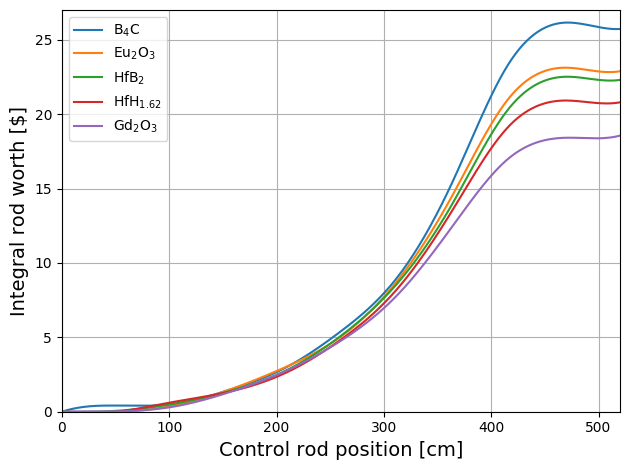
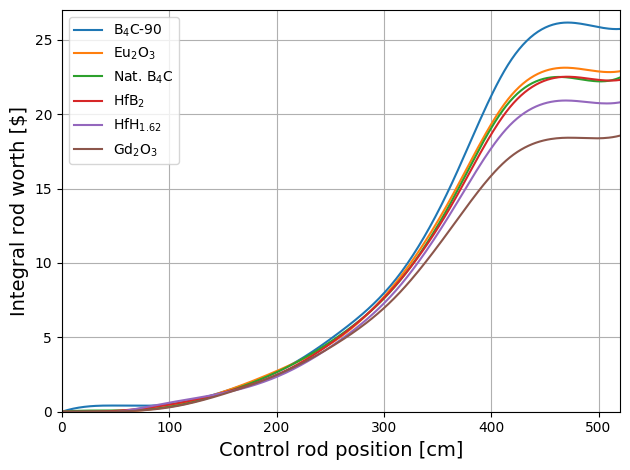
After Tikhomirov's review

diff --git a/paper/results.tex b/paper/results.tex
@@ -22,53 +22,53 @@ The proposed reactivity control system must compensate such reactivity at startu
 
 The control rod parameters including control rod worth (CRW), interference 
 between CR clusters, and integral and differential control rod worths are 
-described in this part. Five different absorbing materials are considered based 
-on their neutronics and safety performance (see part \ref{CRD}). 
+described in this part. 
 Table~\ref{tab:worth} shows calculated control rod worth, the amplification 
-factor (A$_{CRi}$), and the type of interference for five different 
+factor (A$_{CRi}$), and the type of interference for the six different 
 absorbers.
 
 \begin{sidewaystable}
-	\fontsize{6}{9}\selectfont
+	\fontsize{5}{7}\selectfont
 	\centering
 	\caption{The control rod worth and shadowing effect for different CR 
 	materials.}
 	\vspace{1ex}
-	\begin{tabularx}{\textwidth}{|X|p{0.65cm}|p{0.65cm}|p{0.65cm}| 
-	p{0.65cm}|p{0.65cm}|p{0.65cm}| p{0.65cm}|p{0.65cm}|p{0.65cm}| 
-	p{0.65cm}|p{0.65cm}|p{0.65cm}| p{0.65cm}|p{0.65cm}|p{0.65cm}|}
+	\begin{tabularx}{\textwidth}{|p{1.8cm}|p{0.56cm}|p{0.5cm}|p{0.49cm}|p{0.56cm}|p{0.5cm}|p{0.49cm}| 
+	p{0.56cm}|p{0.5cm}|p{0.49cm}|p{0.56cm}|p{0.5cm}|p{0.49cm}| 
+	p{0.56cm}|p{0.5cm}|p{0.49cm}|p{0.56cm}|p{0.5cm}|p{0.49cm}|}
 		\hline
 		\multirow{2}{*}{Control Rod group}		& 
-		\multicolumn{3}{c|}{B$_4$C-90}   	&\multicolumn{3}{c|}{HfB$_2$}	
+		\multicolumn{3}{c|}{Nat. B$_4$C} & \multicolumn{3}{c|}{B$_4$C-90}   	&\multicolumn{3}{c|}{HfB$_2$}	
 		&\multicolumn{3}{c|}{HfH$_{1.62}$} 
 		&\multicolumn{3}{c|}{Gd$_2$O$_3$}	& 	
 		\multicolumn{3}{c|}{Eu$_2$O$_3$} \\
-		\cline{2-16}
-		& $\Delta\rho$$_{CRi}$  [\$]  &A$_{CRi}$	& Interfe\-rence	
-		&$\Delta\rho$$_{CRi}$ [\$]&A$_{CRi}$	& Interfe\-rence	
-		&$\Delta\rho$$_{CRi}$ [\$]	&A$_{CRi}$	& Interfe\-rence	
-		&$\Delta\rho$$_{CRi}$ [\$]	&A$_{CRi}$	& Interfe\-rence	
-		&$\Delta\rho$$_{CRi}$ [\$]	&A$_{CRi}$  &	Interfe\-rence \\
+		\cline{2-19}
+		& $\Delta\rho$$_{CRi}$  [\$]  &A$_{CRi}$	& Inter\-ference
+		& $\Delta\rho$$_{CRi}$  [\$]  &A$_{CRi}$	& Inter\-ference	
+		&$\Delta\rho$$_{CRi}$ [\$]  &A$_{CRi}$	& Inter\-ference	
+		&$\Delta\rho$$_{CRi}$ [\$]	&A$_{CRi}$	& Inter\-ference	
+		&$\Delta\rho$$_{CRi}$ [\$]	&A$_{CRi}$	& Inter\-ference	
+		&$\Delta\rho$$_{CRi}$ [\$]	&A$_{CRi}$  &	Inter\-ference \\
 		\hline                   
-		All control rods        				& $48.19\pm0.68$   &	&	
-		&$40.4\pm0.41$	&	&	&$37.96\pm0.36$	&	&	&$33.7\pm0.4$	&	
+		All control rods      &  $42.04\pm0.60$	&	&		& $48.19\pm0.68$   &	&	
+		&$40.40\pm0.41$	&	&	&$37.96\pm0.36$	&	&	&$33.70\pm0.40$	&	
 		&	&$42.39\pm0.48$	& &	 \\
 		\hline 
-		CSD 							& $25.5\pm0.23$   &$1.24\pm0.01$	&$\star$	&$21.9\pm0.17$	&$1.1\pm0.01$	&$\star$	&$20.62\pm0.34$	&$1.1\pm0.01$	&$\star$	&$18.48\pm0.25$	&$1.17\pm0.01$	&$\star$	&$22.96\pm0.18$	&$1.2\pm0.01$ &$\star$ \\
+		CSD 		 & $22.32\pm0.20$ 	& $1.24\pm0.01$	&	$\star$				& $25.50\pm0.23$   &$1.24\pm0.01$	&$\star$	&$21.90\pm0.17$	&$1.10\pm0.01$	&$\star$	&$20.62\pm0.34$	&$1.10\pm0.01$	&$\star$	&$18.48\pm0.25$	&$1.17\pm0.01$	&$\star$	&$22.96\pm0.18$	&$1.20\pm0.01$ &$\star$ \\
 		\hline 
-		SSD		  		&$16.39\pm0.11$ &$1.38\pm0.02$	&$\star$	&$14.27\pm0.21$	&$1.29\pm0.01$	&$\star$	&$13.23\pm0.18$	&$1.3\pm0.06$	&$\star$	&$12\pm0.2$	&$1.26\pm0.01$	&$\star$	&$14.58\pm0.11$	&$1.3\pm0.02$	&$\star$ \\
+		SSD		   & $14.27\pm0.10$ 	&$1.38\pm0.02$	&	$\star$	&$16.39\pm0.11$ &$1.38\pm0.02$	&$\star$	&$14.27\pm0.21$	&$1.29\pm0.01$	&$\star$	&$13.23\pm0.18$	&$1.30\pm0.06$	&$\star$	&$12.00\pm0.20$	&$1.26\pm0.01$	&$\star$	&$14.58\pm0.11$	&$1.30\pm0.02$	&$\star$ \\
 		\hline 
-		CSD inner ring  &  $18.42\pm0.05$  &$1.6\pm0.04$	&$\star$		&$16.29\pm0.29$	&$1.48\pm0.02$	&$\star$	&$15.5\pm0.17$	& $1.46\pm0.01$ &$\star$	&$14.12\pm0.07$	&$1.39\pm0.01$	&$\star$	&$16.92\pm0.13$	&$1.5\pm0.01$	 &$\star$\\
+		CSD inner ring   &  $16.80\pm0.02$	&$1.50\pm0.01$	&$\star$ &  $18.42\pm0.05$  &$1.60\pm0.04$	&$\star$		&$16.29\pm0.29$	&$1.48\pm0.02$	&$\star$	&$15.50\pm0.17$	& $1.46\pm0.01$ &$\star$	&$14.12\pm0.07$	&$1.39\pm0.01$	&$\star$	&$16.92\pm0.13$	&$1.50\pm0.01$	 &$\star$\\
 		\hline 
-		CSD outer ring            	    &$2.26\pm0.02$ &$4.21\pm0.07$	&$\star$	&$2.1\pm0.06$	&$3.11\pm0.1$&$\star$	&$1.85\pm0.07$	&$3.24\pm0.06$	&$\star$	&$1.8\pm0.1$	&$2.54\pm0.14$	&$\star$	&$2.14\pm0.05$	&$3.2\pm0.05$	 &$\star$	\\  
+		CSD outer ring            &  $2.16\pm0.02$	&$3.11\pm0.06$	&	$\star$    &$2.26\pm0.02$ &$4.21\pm0.07$	&$\star$	&$2.10\pm0.06$	&$3.11\pm0.10$&$\star$	&$1.85\pm0.07$	&$3.24\pm0.06$	&$\star$	&$1.80\pm0.10$	&$2.54\pm0.14$	&$\star$	&$2.14\pm0.05$	&$3.20\pm0.05$	 &$\star$	\\
 		\hline 
-		CSD2								& $2.25\pm0.04$   &$3.69\pm0.16$	&$\star$	&$2.24\pm0.05$	&$2.42\pm0.1$	&$\star$	&$2\pm0.1$	&$2.68\pm0.03$	&$\star$	&$1.8\pm0.1$	&$2.55\pm0.2$	&$\star$	&$2.19\pm0.12$	&$2.9\pm0.08$	&$\star$ \\
+		CSD2			 &  $2.11\pm0.03$	&$3.00\pm0.08$	&	$\star$				& $2.25\pm0.04$   &$3.69\pm0.16$	&$\star$	&$2.24\pm0.05$	&$2.42\pm0.10$	&$\star$	&$2.00\pm0.10$	&$2.68\pm0.03$	&$\star$	&$1.80\pm0.10$	&$2.55\pm0.20$	&$\star$	&$2.19\pm0.12$	&$2.90\pm0.08$	&$\star$ \\
 		\hline 
-		CSD9								& $0.15\pm0.04$   & $10.53\pm0.01$	&$\star$$\star$	&$0.1\pm0.05$	&$5.1\pm0.05$	&$\star$	&$0.05\pm0.01$	&$16.4\pm0.1$	&$\star$$\star$	&$0.09\pm0.07$	&$5.55\pm0.2$	&$\star$$\star$	&$0.07\pm0.05$	&$14\pm0.1$	&$\star$$\star$ \\ 
+		CSD9			 &  $0.06\pm0.01$	&$15.16\pm0.10$	&	$\star$$\star$				& $0.15\pm0.04$   & $10.53\pm0.01$	&$\star$$\star$	&$0.10\pm0.05$	&$5.10\pm0.05$	&$\star$	&$0.05\pm0.01$	&$16.40\pm0.10$	&$\star$$\star$	&$0.09\pm0.07$	&$5.55\pm0.20$	&$\star$$\star$	&$0.07\pm0.05$	&$14.00\pm0.10$	&$\star$$\star$ \\ 
 		\hline
-		SSD1					& $4.18\pm0.07$   &$1.59\pm0.08$	&$\star$	&$3.95\pm0.13$	&$1.3\pm0.07$	&$\star$	&$3.59\pm0.03$	&$1.49\pm0.01$	&$\star$	&$3.45\pm0.12$	&$1.4\pm0.08$	&$\star$	&$3.91\pm0.06$	&$1.4\pm0.01$&$\star$ \\
+		SSD1		 &  $3.95\pm0.05$	&$1.31\pm0.01$	&	$\star$		& $4.18\pm0.07$   &$1.59\pm0.08$	&$\star$	&$3.95\pm0.13$	&$1.30\pm0.07$	&$\star$	&$3.59\pm0.03$	&$1.49\pm0.01$	&$\star$	&$3.45\pm0.12$	&$1.40\pm0.08$	&$\star$	&$3.91\pm0.06$	&$1.40\pm0.01$&$\star$ \\
 		\hline 
-		SSD4					&  $0.57\pm0.09$  &$7.84\pm0.15$	&$\star$$\star$	&$0.63\pm0.06$	&$4.4\pm0.1$	&$\star$	&$1\pm0.05$	&$2.51\pm0.16$	&$\star$	&$0.6\pm0.8$	&$3.31\pm0.27$	&$\star$	&$0.6\pm0.08$	&$5.1\pm0.28$	&$\star$$\star$ \\
+		SSD4		 &  $0.59\pm0.08$	& $9.52\pm0.10$	&	$\star$$\star$		&  $0.57\pm0.09$  &$7.84\pm0.15$	&$\star$$\star$	&$0.63\pm0.06$	&$4.40\pm0.10$	&$\star$	&$1.00\pm0.05$	&$2.51\pm0.16$	&$\star$	&$0.60\pm0.80$	&$3.31\pm0.27$	&$\star$	&$0.60\pm0.08$	&$5.10\pm0.28$	&$\star$$\star$ \\
 		\hline
 	\end{tabularx}
 	\begin{tablenotes}
@@ -87,7 +87,7 @@ has the largest absorption ability, while Gd$_2$O$_3$ has the lowest
 absorption compared with the other absorbing materials in this study. This 
 result agrees with macroscopic absorption cross sections data 
 \cite{guo2019optimized}. B$_4$C-90 has the highest macroscopic 
-absorption cross sections followed by Eu$_2$O$_3$, HfB$_2$, HfH$_{1.62}$, and 
+absorption cross sections followed by Eu$_2$O$_3$, natural B$_4$C (Nat. B$_4$C), HfB$_2$, HfH$_{1.62}$, and 
 finally Gd$_2$O$_3$. The control rod material is being transmuted during 
 operation. The effect of the fuel salt burnup on the control rod worth is neglected
 herein, and will be investigated and presented in Part II of this 
@@ -106,7 +106,7 @@ spectrum of the SD-TMSR core started with TRU \cite{ashraf2020Strategies}.
 The inner ring of the CSD is located in the central zone of the SD-TMSR core 
 (Figure~\ref{fig:core_25}), in which the volume ratio between molten salt and 
 graphite is relatively small ($0.357$). Results show that the inner ring of the CSD has 
-the worth almost equal to the worth of all other CRs together regardless of 
+the worth almost equal to the worth of all other CRs together (SSD + CSD outer ring) regardless of 
 the absorbing material type (see Table~\ref{tab:worth}). This happens because the absorption cross section
 decreases with the energy of incident neutron, for example, boron absorbs neutrons in thermal spectrum much 
 greater than in fast spectrum.
@@ -147,10 +147,11 @@ provide a sufficient positive shutdown margin.
 		\hline
 		Absorbing materials        				&  $^{233}$U & reactor-grade Pu&  TRU \\
 		\hline
+		Nat. B$_4$C					& $12.62\pm0.08$ $\$$ &$10.18\pm0.09$ $\$$ &$-1.12\pm0.08$ $\$$ \\
 		B$_4$C-90                          & $14.74\pm0.09$ $\$$ & $12.28\pm0.12$ $\$$ & $ $ $ $ $1.01\pm0.09$ $\$$ \\
 		Eu$_2$O$_3$                       &  $12.93\pm0.09$ $\$$    &  $10.47\pm0.12$ $\$$   &$-0.80\pm0.09$ $\$$\\
 		HfB$_2$        				 &$12.62\pm0.24$ $\$$ &$10.16\pm0.26$ $\$$ &$-1.11\pm0.24$ $\$$   \\
-		HfH$_{1.62}$							& $11.58\pm0.19$ $\$$ &$9.120\pm0.22$ $\$$ &$-2.15\pm0.19$ $\$$ \\
+		HfH$_{1.62}$							& $11.58\pm0.19$ $\$$ &$9.12\pm0.22$ $\$$ &$-2.15\pm0.19$ $\$$ \\
 		Gd$_2$O$_3$	  		& $10.35\pm0.22$ $\$$ &$7.890\pm0.25$ $\$$& $-3.38\pm0.22$ $\$$\\
 		\hline
 	\end{tabularx}
@@ -185,7 +186,7 @@ into the core \cite{girardin2007control}.
 	\includegraphics[width=\textwidth]{totalflux.png}
 	\vspace{-0.5in}
 	\caption{Radial neutron flux distribution at the mid-core for different 
-	CRs positions.} 
+	CRs positions (CRs made of B$_4$C-90).} 
 	\label{fig:totalflux}
 \end{figure}
  
@@ -198,13 +199,13 @@ inserted gradually into the core from the top to the bottom.
 Equation~\ref{Equ:4} and~\ref{Equ:5} are used to calculate the integral and 
 differential CRW, respectively. Figure~\ref{fig:integ} illustrates the integral CRW for CRs 
 made of B$_4$C-90. The maximum integral worth of All CRs, CSD, and SSD 
-clusters are about $48.39$ $\$$, $25.3$ $\$$, and $16.46$ $\$$, respectively. The 
-integral worth of SSD clusters is sufficient to shut down the reactor from any 
+clusters are about $48.39$ $\$$, $25.30$ $\$$, and $16.46$ $\$$, respectively. The 
+integral worth of SSD clusters made of B$_4$C-90 is sufficient to shut down the reactor from any 
 state.
 
 The differential CRWs are demonstrated in Figure~\ref{fig:diff}. Ideally, at the top of the core, the CR insertion has little effect since this region has low thermal neutron flux. Thus, the differential CRW has the lowest values in this region. The effect of CR insertion increases gradually near the center of the core. At the center of the core (region with maximum thermal neutron flux), the differential CRW is the largest and changes slowly with rod insertion. From the center of the core to the bottom, the differential CRW values decrease (region with low thermal neutron flux). Figure~\ref{fig:diff} shows that the maximum differential CRW is shifted toward the bottom of the core and the curves is not exactly symmetrical. This is due to the asymmetrical distribution for the fuel and graphite in simulation \cite{xuemei2013study,son2016control}.
 
-Figure~\ref{fig:CSD} shows the integral CRW for only CSD clusters with five 
+Figure~\ref{fig:CSD} shows the integral CRW for only CSD clusters with the six 
 different absorbing materials. The results show that all absorbing materials 
 have almost the same integral rod worth in the upper half of the core 
 ($<250$ cm from the upper boundary of the core). Further insertion of the 
@@ -217,14 +218,14 @@ materials in this study. Notably, all results are based on steady state calculat
 	\centering
 	\includegraphics[width=\textwidth]{integ.png}
 	\vspace{-0.5in}
-	\caption{Integral control rod worth of all CRs, CSD, and SSD clusters.} 
+	\caption{Integral control rod worth of all CRs, CSD, and SSD clusters (CRs made of B$_4$C-90).} 
 	\label{fig:integ}
 \end{figure}
 \begin{figure}
 	\centering
 	\includegraphics[width=\textwidth]{diff.png}
 	\vspace{-0.5in}
-	\caption{Differential control rod worth of all CRs, CSD, and SSD clusters.} 
+	\caption{Differential control rod worth of all CRs, CSD, and SSD clusters (CRs made of B$_4$C-90).} 
 	\label{fig:diff}
 \end{figure}
 \begin{figure}

diff --git a/paper/methods.tex b/paper/methods.tex
@@ -42,9 +42,8 @@ summarized in Table~\ref{tab:table1}.
 		Fuel temperature, K 							& 900  \\
 		Fuel density at 900 K, g/cm$^3$		  		& 3.3 \\
 		Fuel dilatation coefficient, g/(cm$^3$$.$K)  &  -6.7$\times$10$^{-4}$ \\
-		Graphite density, g/cm$^3$             	    & 2.3	\\  
-		B$_4$C density, g/cm$^3$					& 2.52  \\
-		$^{10}$B enrichment, \%						&  18.4  \\
+		Graphite density, g/cm$^3$             	    & 2.3	\\ 
+		B$_4$C density, g/cm$^3$					& 2.52  \\ 
 		Core diameter, cm								& 460  \\
 		Core height, cm									& 460  \\
 		Side length of the graphite hexagonal prism, cm   & 7.5 \\
@@ -69,8 +68,9 @@ rods:
 \item Shutdown Safety Devices (SSD).
 \end{enumerate}
 The CSD system is designed for reactivity control during normal operation and the SSD system is designed for an emergency reactor shutdown.
-In the present work, five different absorbing materials are considered based on their neutronics and safety performance:
+In the present work, six different absorbing materials are considered based on their neutronics and safety performance:
 \begin{enumerate}
+\item natural B$_4$C (19.9\% $^{10}$B);
 \item B$_4$C with boron enriched to 90\% $^{10}$B;
 \item hafnium diboride (HfB$_2$);
 \item hafnium hydride (HfH$_{1.62}$);
@@ -126,7 +126,7 @@ control rods located at the same distance from the fuel channel center.
 
 \section{Methodology and tools} \label{Methodology-and-tools}
 \subsection{Control rod design evaluation}
-In this work, SERPENT-2 version 2.1.31 \cite{leppanen2014serpent} is used to 
+In this work, SERPENT-2 \cite{leppanen2014serpent} is used to 
 perform steady state calculations for the full-core of the SD-TMSR with 
 suggested control rod design. We adopted the ENDF-VII.0 cross section library 
 for all calculations in the present work. The results demonstrate whole-core 
@@ -203,13 +203,13 @@ insertion or withdrawal. However, the differential CRW is the amount of
 reactivity inserted per unit of withdrawal [\$/cm]. To calculate those 
 parameters, we varied the position of CRs clusters from fully withdrawn to 
 fully inserted. Equation~\ref{Equ:4} is used to calculate the integral CRW 
-[\$], where $k_{i}$ and $k_{i-1}$ are the effective multiplication factor 
-after and before CR insertion to i$^{th}$ step. $\beta_{i}$ is the effective 
-fraction of delayed neutrons at i$^{th}$ step. $N$ is the number of steps.
+[\$], where $k_{j}$ and $k_{j-1}$ are the effective multiplication factor 
+after and before CR insertion to $j$$^{th}$ step. $\beta_{j}$ is the effective 
+fraction of delayed neutrons at $j$$^{th}$ step. $N$ is the number of steps.
 
 \begin{equation}
 \label{Equ:4}
-{{\Delta}{\rho}_{i}}=\sum_{i=1}^{N}\dfrac{{k_{i}}-{k_{i-1}}}{{{k_{i}}{k_{i-1}}}{{\beta}_{i}}},
+{{\Delta}{\rho}_{j}}=\sum_{j=1}^{N}\dfrac{{k_{j}}-{k_{j-1}}}{{{k_{j}}{k_{j-1}}}{{\beta}_{j}}},
 \end{equation}
 
 Equation~\ref{Equ:5} is used to calculate the differential CRW [\$/cm], where 
@@ -217,7 +217,7 @@ $Z$ is the coordinate of the bottom of the control rod.
 
 \begin{equation}
 \label{Equ:5}
-\dfrac{{\partial}{\rho}_{i}}{{\partial{Z}}}=\dfrac{1}{{\Delta}{Z}}\dfrac{{k_{i}}-{k_{i-1}}}{{{k_{i}}{k_{i-1}}}{{\beta}_{i}}},
+\dfrac{{\partial}{\rho}_{j}}{{\partial{Z}}}=\dfrac{1}{{\Delta}{Z}}\dfrac{{k_{j}}-{k_{j-1}}}{{{k_{j}}{k_{j-1}}}{{\beta}_{j}}},
 \end{equation}
 
 

diff --git a/paper/introduction.tex b/paper/introduction.tex
@@ -34,7 +34,7 @@ Additionally, during burnup, the online
 reprocessing and refueling leads to slow reactivity change, which 
 should be compensated \cite{ashraf2020Strategies,ashraf2020whole}. 
 The online reprocessing and refueling system helps to control the reactivity of 
-the MSRs \cite{ashraf2020whole}. However, the most common and reliable procedure 
+the MSRs \cite{ashraf2020whole,ashraf2019Preliminary}. However, the most common and reliable procedure 
 to control the reactor is to insert or withdraw control rods made of material 
 with a large neutron absorption cross section (e.g., boron, cadmium) 
 \cite{duderstadt650nuclear}. 
@@ -66,7 +66,7 @@ molten salt reactor. Adjusting fertile and fissile feed rates helps to control t
 the SD-TMSR \cite{ashraf2020whole,ashraf2020Strategies,li_optimization_2018}. However, reactivity control system for maneuvering and emergency shutdown was not introduced in the literature \cite{li_optimization_2018,zou2018transition,zhang2020radiotoxicity,jiang2012advanced,zou2018preliminary,ZOU2015114}. Therefore, the main objective of our study is to introduce a new 
 fast reactivity control system based on control rods in the \gls{SD-TMSR} to control 
 the reactivity during normal operation and shut down the reactor in case of 
-emergency. Five different absorbing materials are 
+emergency. Six different absorbing materials are 
 applied to study the main neutronics and safety parameters in the SD-TMSR. We 
 focus on the control rod design, absorption ability, integral and differential 
 control rod worths, shutdown margin of absorbing materials, and shadowing 

diff --git a/paper/acks.tex b/paper/acks.tex
@@ -11,7 +11,7 @@ Andrei Rykhlevskii conceived and designed the simulations, wrote the paper, prep
 and/or tables, performed the computation work, and reviewed drafts of the paper. Andrei Rykhlevskii 
 is supported by  DOE ARPA-E MEITNER program award DE-AR0000983. 
 
-G. V. Tikhomirov directed and supervised the work, conceived and designed the simulations and reviewed drafts of the paper. Prof. Tikhomirov is supported by Rosatom, he is Deputy Director of the Institute of Nuclear Physics and Engineering MEPhI. Board member of Nuclear society of Russia.
+G. V. Tikhomirov directed and supervised the work, conceived and designed the simulations and reviewed drafts of the paper. Prof. Tikhomirov is Deputy Director of the Institute of Nuclear Physics and Engineering MEPhI. Board member of Nuclear society of Russia.
 
 Kathryn D. Huff supervised the work, conceived and contributed to conception of the simulations, and reviewed drafts of the paper.  Prof. Huff is supported by the Nuclear Regulatory Commission Faculty Development Program, the National Center for Supercomputing Applications, the International Institute for Carbon Neutral Energy Research (WPI-I2CNER), 
 sponsored by the Japanese Ministry of Education, Culture, Sports, Science and Technology, and  DOE ARPA-E MEITNER program award DE-AR0000983.

diff --git a/paper/abstract.tex b/paper/abstract.tex
@@ -8,9 +8,10 @@ introduced a reliable safety system based on control rods in addition to the
 online feed system reactivity control in the 
 \gls{SD-TMSR}. The full-core of the \gls{SD-TMSR} model contained fuel salt 
 with three different initial fissile materials: $^{233}$U, reactor-grade Pu, 
-and transuranic elements (TRU) as a startup fuel. We applied five different absorbing 
+and transuranic elements (TRU) as a startup fuel. We applied six different absorbing 
 materials to investigate the main operational and safety parameters in the 
-\gls{SD-TMSR}: B$_4$C, HfB$_2$, HfH$_{1.62}$, Eu$_2$O$_3$, and Gd$_2$O$_3$. 
+\gls{SD-TMSR}: natural B$_4$C, enriched B$_4$C with 90\% $^{10}$B, HfB$_2$, HfH$_{1.62}$,
+Eu$_2$O$_3$, and Gd$_2$O$_3$. 
 Present work focused on the control rod design, integral and differential 
 control rod worth, shutdown margin, and shadowing effects at the steady state. 
 We employed SERPENT-2 Monte-Carlo code to calculate the reactivity worth and 

diff --git a/paper/conclusion.tex b/paper/conclusion.tex
@@ -12,8 +12,8 @@ fully withdrawn. The $\rho_e$ for $^{233}$U, reactor-grade Pu, and
 TRU are $1.65\pm0.04$ $\$$, $4.11\pm0.02$ $\$$, and $15.38\pm0.04$ $\$$, 
 respectively.
 
-Five different absorbing materials are considered based on their neutronics and 
-safety performance: B$_4$C-90 (boron is enriched to 90\% $^{10}$B), HfB$_2$, 
+Six different absorbing materials are considered in this work:
+natural B$_4$C, B$_4$C-90 (boron is enriched to 90\% $^{10}$B), HfB$_2$, 
 HfH$_{1.62}$, Eu$_2$O$_3$, and Gd$_2$O$_3$. Enriched B$_4$C-90 has the largest 
 absorption ability, while Gd$_2$O$_3$ has the lowest absorption compared with 
 the other absorbing materials in this study. Both CSD and SSD clusters are 
